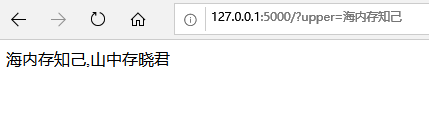
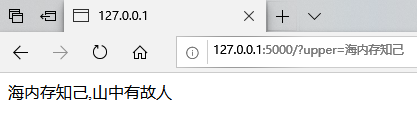
update document

diff --git a/B-教学案例与实践/B13-AI对联生成案例/code/service/up2down_model/up2down_model.py b/B-教学案例与实践/B13-AI对联生成案例/code/service/up2down_model/up2down_model.py
@@ -59,7 +59,7 @@ class up2down_class:
         raw_outputs = serving_utils.predict(input_sentence_list, self.problem, self.request_fn)
         
         outputs = self.format_output(raw_outputs)
-        outputs = reduce(lambda x,y: x+y,outputs) 
+
         return outputs
 
     def format_input(self, input_sentence_raw_list):

diff --git a/B-教学案例与实践/B13-AI对联生成案例/README.md b/B-教学案例与实践/B13-AI对联生成案例/README.md
@@ -187,7 +187,7 @@ pip install -r train_requirements.txt
     + Fairseq 工具包：[Fairseq](https://github.com/pytorch/fairseq) 是 Facebook 推出的一个序列建模工具包，这个工具包允许研究和开发人员自定义训练翻译、摘要、语言模型等文本生成任务。这里是它的 PyTorch 实现。
 
     本案例中，我们使用 T2T 工具包进行模型训练。
-
+ 
 
 
 ## 数据收集
@@ -258,15 +258,7 @@ pip install -r train_requirements.txt
     cat merge.txt.vocab | awk ‘{print $1}’ > merge.txt.vocab.clean
     ```
 
-4. 将 merge.txt.vocab.clean 的前三行填充如下内容，并将字表字数加3：
-    
-    ```
-    <pad>
-    <EOS>
-    <UNK>
-    ```
-
-5. 生成测试集。
+4. 生成测试集。
 
     取训练集中前 100 个数据作为测试集。（在实际训练过程中，没有用到测试集）
 
@@ -281,7 +273,7 @@ pip install -r train_requirements.txt
 * train.txt.down.clean
 * merge.txt.vocab.clean
 
-将上述文件放到`data_dir`目录。
+将上述文件放到`usr_dir`目录（新建目录）。
 
 ### 自定义T2T问题
 
@@ -312,7 +304,6 @@ pip install -r train_requirements.txt
 usr_dir \
     __init__.py
     merge_vocab.py
-data_dir \
     train.txt.up.clean
     train.txt.down.clean
     merge.txt.vocab.clean
@@ -339,9 +330,10 @@ t2t-datagen \
 
 `t2t_usr_dir`：指定了一个目录，该目录中包含 \_\_init\_\_.py 文件，并可以导入处理对联问题的 python 模块。在该目录中，编写 merge_vocab.py 文件，注册对联问题。
 
-`data_dir`：数据目录。存放生成训练数据所需的所有源数据资源，以及生成的训练数据文件。
+`data_dir`：数据目录。存放生成的训练数据文件。
 
-`problem`：定义问题名称，本案例中问题名称为 translate_up2down
+`problem`：定义问题名称，本案例中问题名称为 translate_up2down。
+
 当命令执行完毕，将会在 data 目录下生成两个文件：
 
     translate_up2down-train-00000-of-00001
@@ -539,6 +531,8 @@ chmod +x ./inference.sh
     ```
     pip install tensorflow-serving-api==1.14.0
     ```
+    注意：安装`tensorflow-serving-api`会自动安装`tensorflow`的cpu版本，会覆盖`tensorflow-gpu`版本。
+
 
 2. 导出我们训练好的模型
 
@@ -590,7 +584,7 @@ chmod +x ./inference.sh
 ```
 from up2down_model.up2down_model import up2down
 
-up2down.get_down_couplet(upper_couplet)
+up2down.get_down_couplet([upper_couplet])
 ```
 
 由于服务开启后无需再次加载模型和其余相关文件，因此模型推理速度非常快，适合作为应用的接口调用。
@@ -619,9 +613,9 @@ up2down.get_down_couplet(upper_couplet)
     def get_couplet_down():
         couplet_up = request.args.get('upper','')
 
-        couplet_down = up2down.get_down_couplet(couplet_up)
+        couplet_down = up2down.get_down_couplet([couplet_up])
 
-        return couplet_up + "," + couplet_down
+        return couplet_up + "," + couplet_down[0]
 
     ```
 
